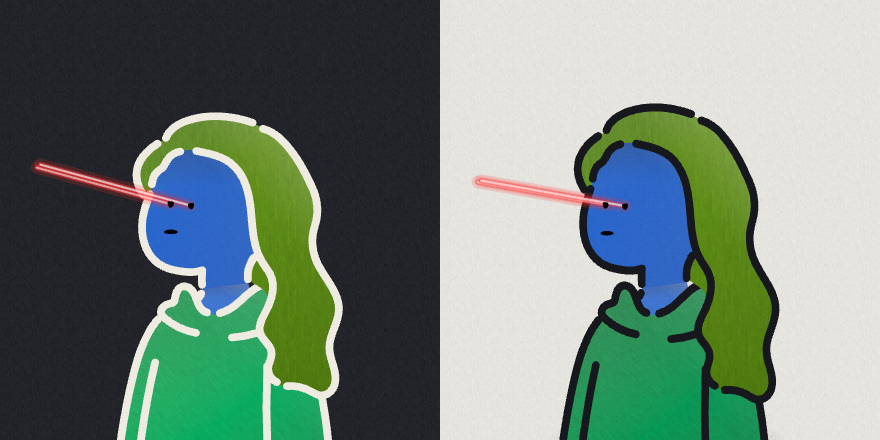
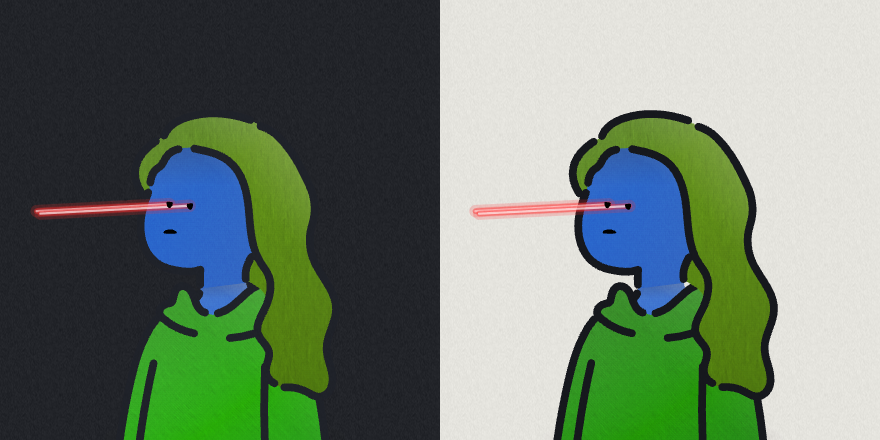
dark mode: keep the ink line dark
Reverted the light-ink outline. Two alternatives were tried and both were
worse: a mid grey looked washed out, and a light ink turned the figure into a
sticker outline. What separates the character from a dark page is its own
colour, not a bright edge around it.

Changed region(s): [[0.5216, 0.2364, 0.8898, 1.0], [0.0307, 0.2364, 0.3989, 1.0]]

diff --git a/src/avatar-motion.js b/src/avatar-motion.js
@@ -179,12 +179,8 @@ export class AvatarMotion extends HTMLElement {
         }
         .aura { position: absolute; inset: 0; pointer-events: none; }
         svg { position: relative; display: block; width: 100%; height: 100%; }
-        /* The OUTLINE inverts in dark mode, but the eyes and mouth must not:
-           they are filled features sitting on a mid-tone face, and in light ink
-           they read as blank holes rather than as eyes. They stay dark in both
-           themes, which is also what makes the face legible at chip size. */
-        .am-eye { fill: var(--am-eye, ${dark ? '#191c22' : built.colors.stroke}); }
-        .am-mouth { fill: var(--am-mouth, ${dark ? '#191c22' : built.colors.stroke}); }
+        .am-eye { fill: var(--am-eye, ${built.colors.stroke}); }
+        .am-mouth { fill: var(--am-mouth, ${built.colors.stroke}); }
 
         /* Top RIGHT, not top centre. Humation hair is tall and centred, so a
            centred emblem lands in it on half the heads; the upper right corner

diff --git a/src/humation.js b/src/humation.js
@@ -265,10 +265,14 @@ export function darkColors(c, kind = 'agent') {
     hair: human ? floorLight(c.hair, 40) : lift(c.hair, 42, 18),
     bottom: lift(c.bottom, 40, 24),
     clothes: lift(c.clothes, 46, 34),
-    // The ink line INVERTS in dark mode. Lifting near-black to a mid grey was
-    // a half-measure that just looked washed out — line art on a dark ground
-    // is drawn in light ink, the same way it is drawn in dark ink on paper.
-    stroke: '#EFEBE1',
+    // The ink line stays DARK in both themes.
+    //
+    // Two alternatives were tried and both were worse: lifting it to a mid grey
+    // looked washed out, and inverting it to a light ink turned the figure into
+    // a sticker outline. What actually separates the character from a dark page
+    // is its own colour — the skin, the hair, the outfit — not a bright edge
+    // around it, and the dark line is what keeps the drawing crisp inside.
+    stroke: floorLight(c.stroke, 14),
   }
 }
 
